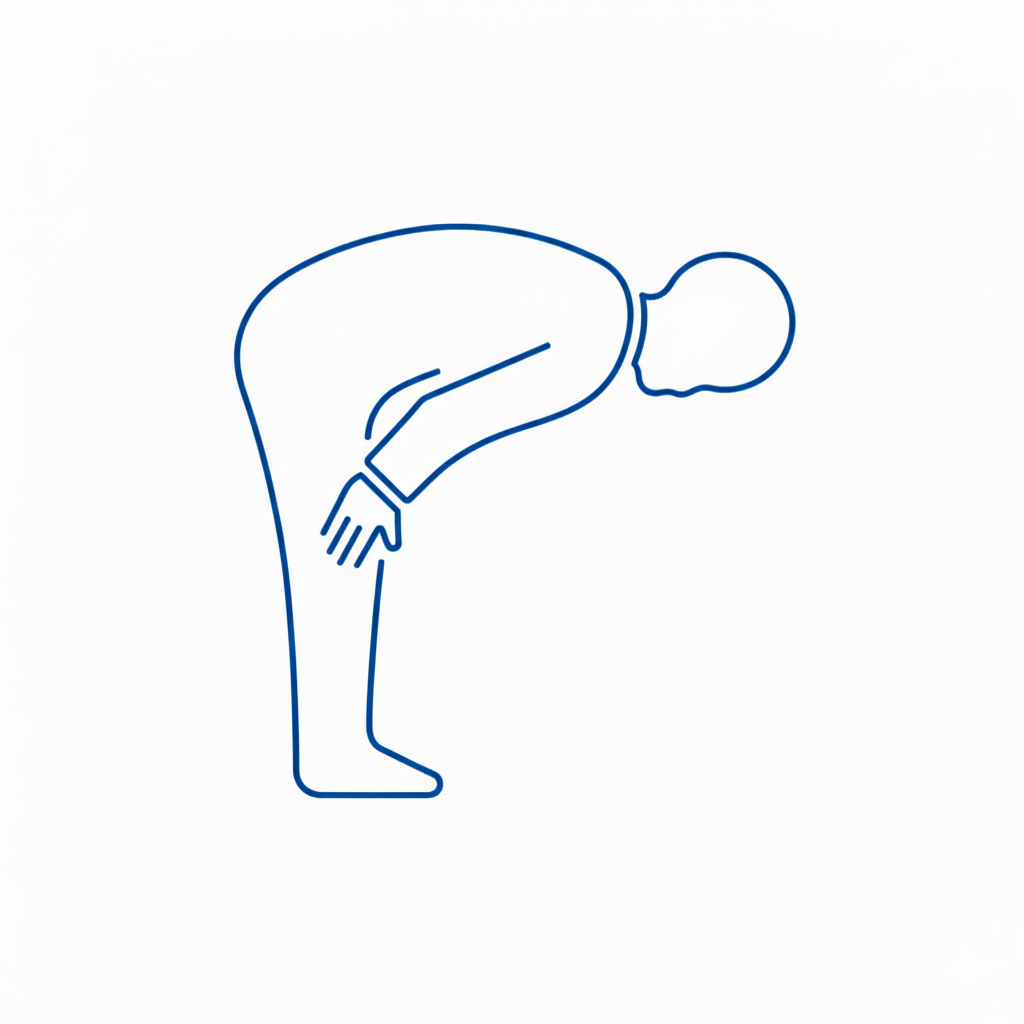
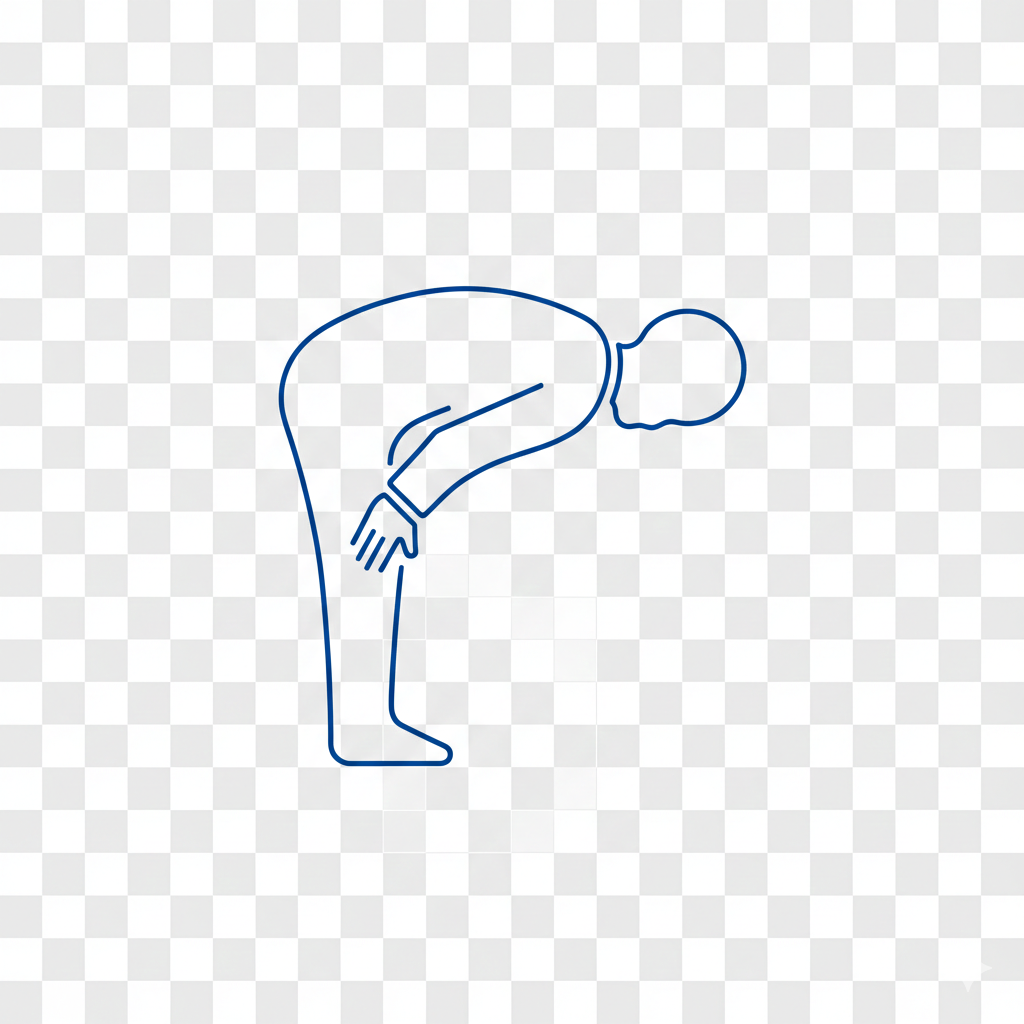
feat(namaz): Image sans fond + icône onglet Namaz
- Nouvelle image Namaz.png avec fond transparent
- Utiliser Namaz.png comme icône dans l'onglet (mobile + desktop)

Changed region(s): [[0.2188, 0.2188, 0.7812, 0.7812]]

diff --git a/index.html b/index.html
@@ -101,11 +101,7 @@
                 Kitap
             </button>
             <button class="mobile-tab-btn" data-action="showTab('namaz', event); toggleMobileMenu();" style="display: flex; align-items: center; gap: 8px;">
-                <svg width="18" height="18" viewBox="0 0 24 24" fill="none" stroke="currentColor" stroke-width="2" stroke-linecap="round" stroke-linejoin="round">
-                    <path d="M12 2L2 7l10 5 10-5-10-5z"></path>
-                    <path d="M2 17l10 5 10-5"></path>
-                    <path d="M2 12l10 5 10-5"></path>
-                </svg>
+                <img src="assets/images/Namaz.png" alt="Namaz" width="20" height="20" style="object-fit: contain;">
                 Namaz
             </button>
             <button class="mobile-tab-btn" data-action="showTab('sohbet', event); toggleMobileMenu();" style="display: flex; align-items: center; gap: 8px;">
@@ -159,11 +155,7 @@
             Kitap
         </button>
         <button class="tab-button" data-action="showTab('namaz', event)" style="display: flex; align-items: center; gap: 6px;">
-            <svg width="18" height="18" viewBox="0 0 24 24" fill="none" stroke="currentColor" stroke-width="2" stroke-linecap="round" stroke-linejoin="round">
-                <path d="M12 2L2 7l10 5 10-5-10-5z"></path>
-                <path d="M2 17l10 5 10-5"></path>
-                <path d="M2 12l10 5 10-5"></path>
-            </svg>
+            <img src="assets/images/Namaz.png" alt="Namaz" width="18" height="18" style="object-fit: contain;">
             Namaz
         </button>
         <button class="tab-button" data-action="showTab('sohbet', event)" style="display: flex; align-items: center; gap: 6px;">

diff --git a/sw.js b/sw.js
@@ -1,6 +1,6 @@
 // Version du cache - Mise à jour automatique lors du déploiement
 // Format: YYYY-MM-DD-commit-feature
-const CACHE_VERSION = '2026-01-21-599cc15';
+const CACHE_VERSION = '2026-01-21-9256e9c';
 const CACHE_NAME = `cetelem-v${CACHE_VERSION}`;
 const urlsToCache = [
   './',
